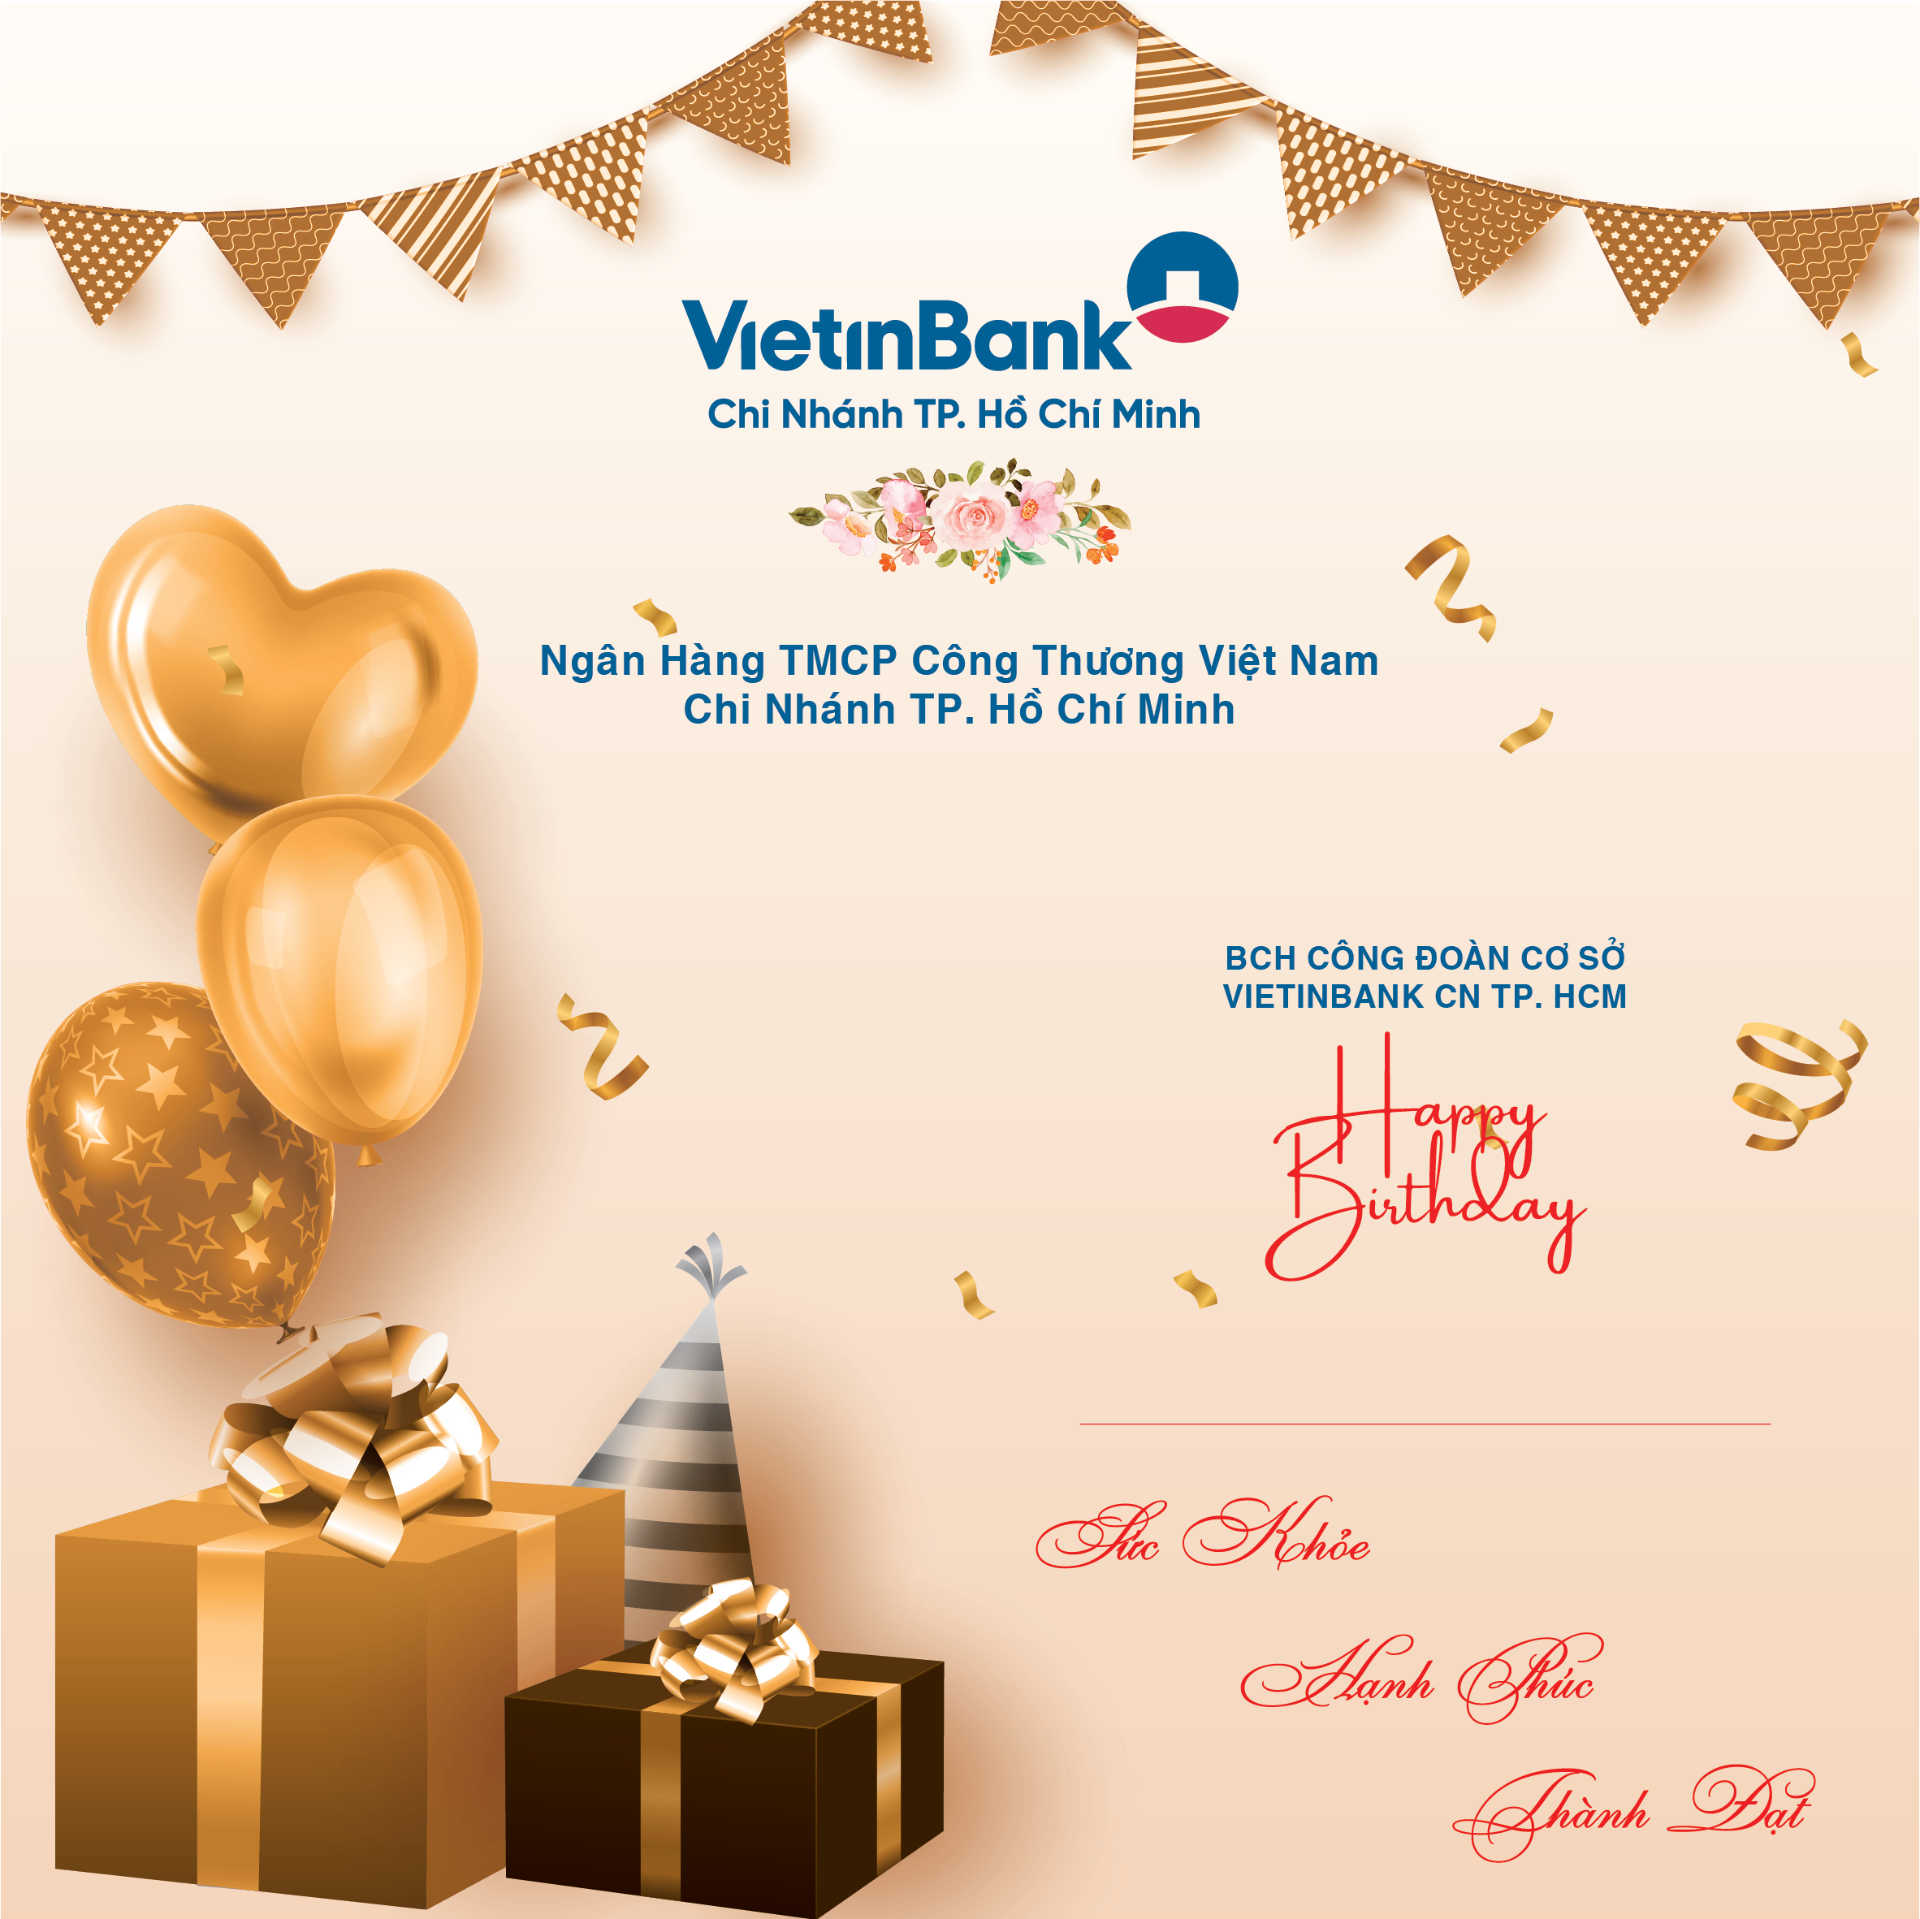
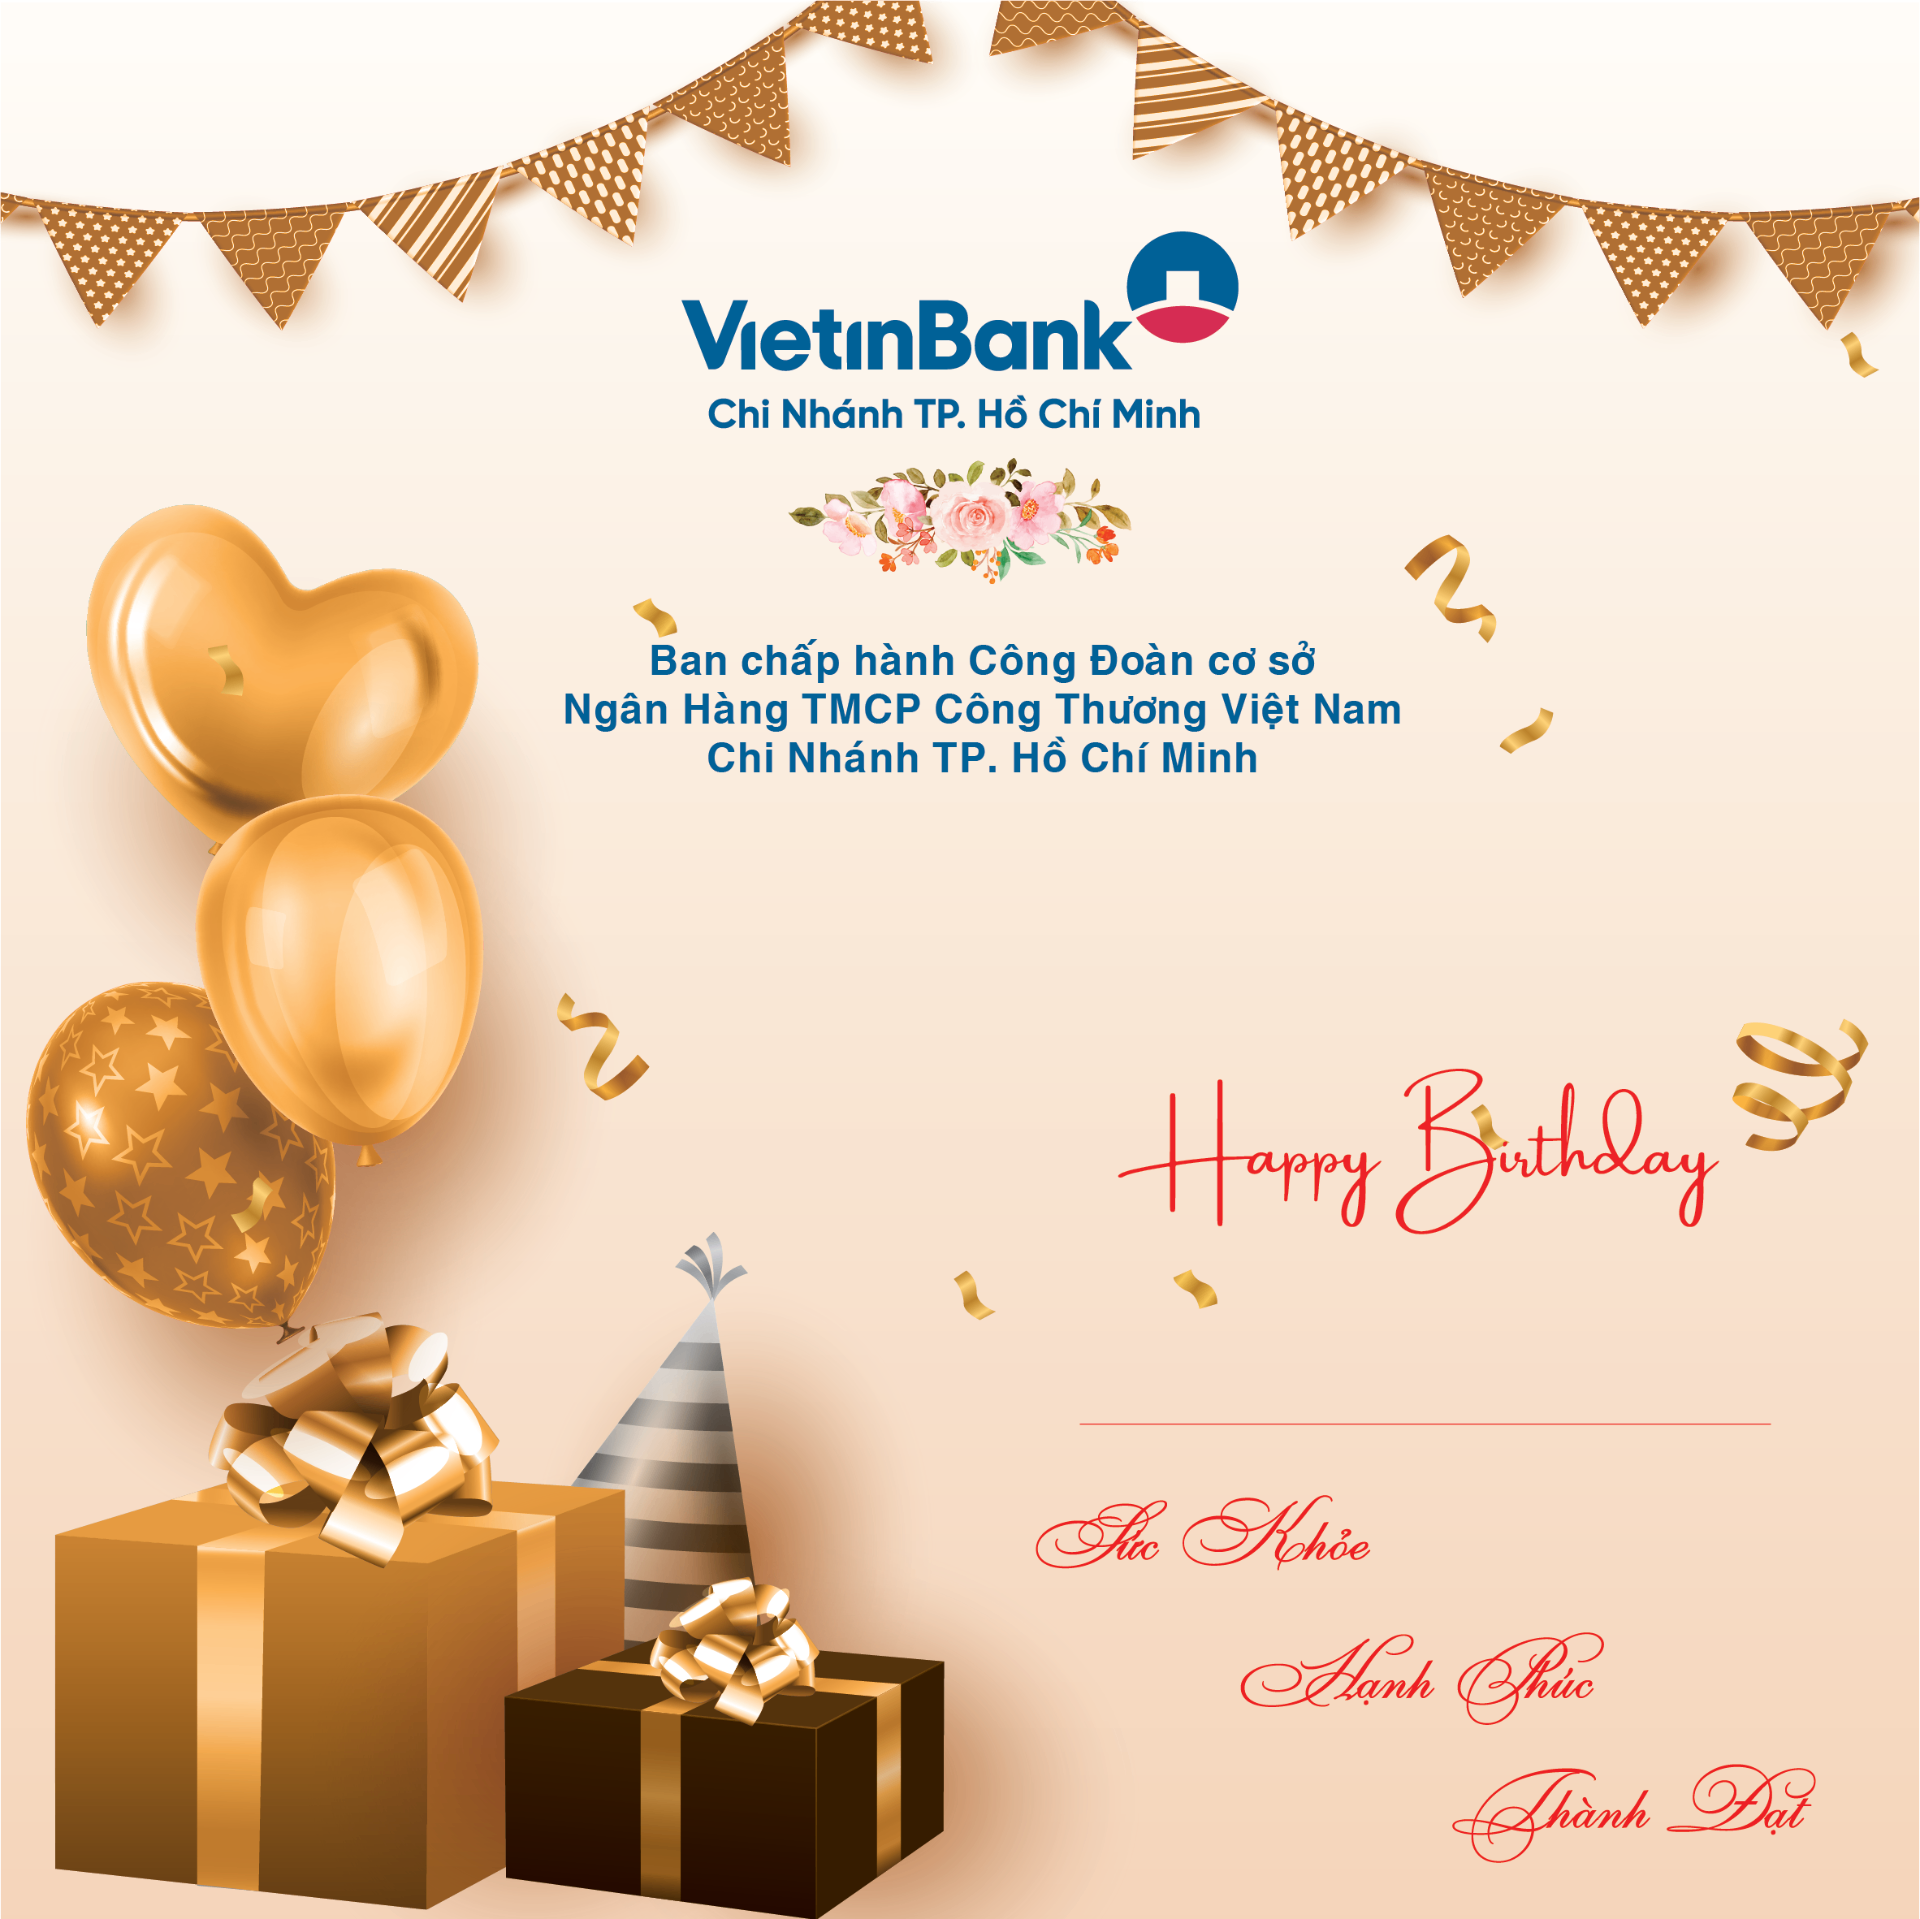
Changes

Changed region(s): [[0.2812, 0.3382, 0.7188, 0.3997], [0.5938, 0.5534, 0.9062, 0.6764], [0.625, 0.4919, 0.8438, 0.5227]]

diff --git a/src/components/BirthdayCard.tsx b/src/components/BirthdayCard.tsx
@@ -169,8 +169,9 @@ export const BirthdayCard = ({ recipientName }: BirthdayCardProps) => {
                   transition={{ delay: 0.5, type: "spring", stiffness: 200 }}
                 >
                   <p
-                    className="font-script text-sm sm:text-base md:text-lg text-gold text-left"
+                    className="font-script text-sm sm:text-base md:text-lg text-left"
                     style={{
+                      color: '#0066b3',
                       textShadow: '1px 1px 2px rgba(0,0,0,0.12)',
                     }}
                   >
